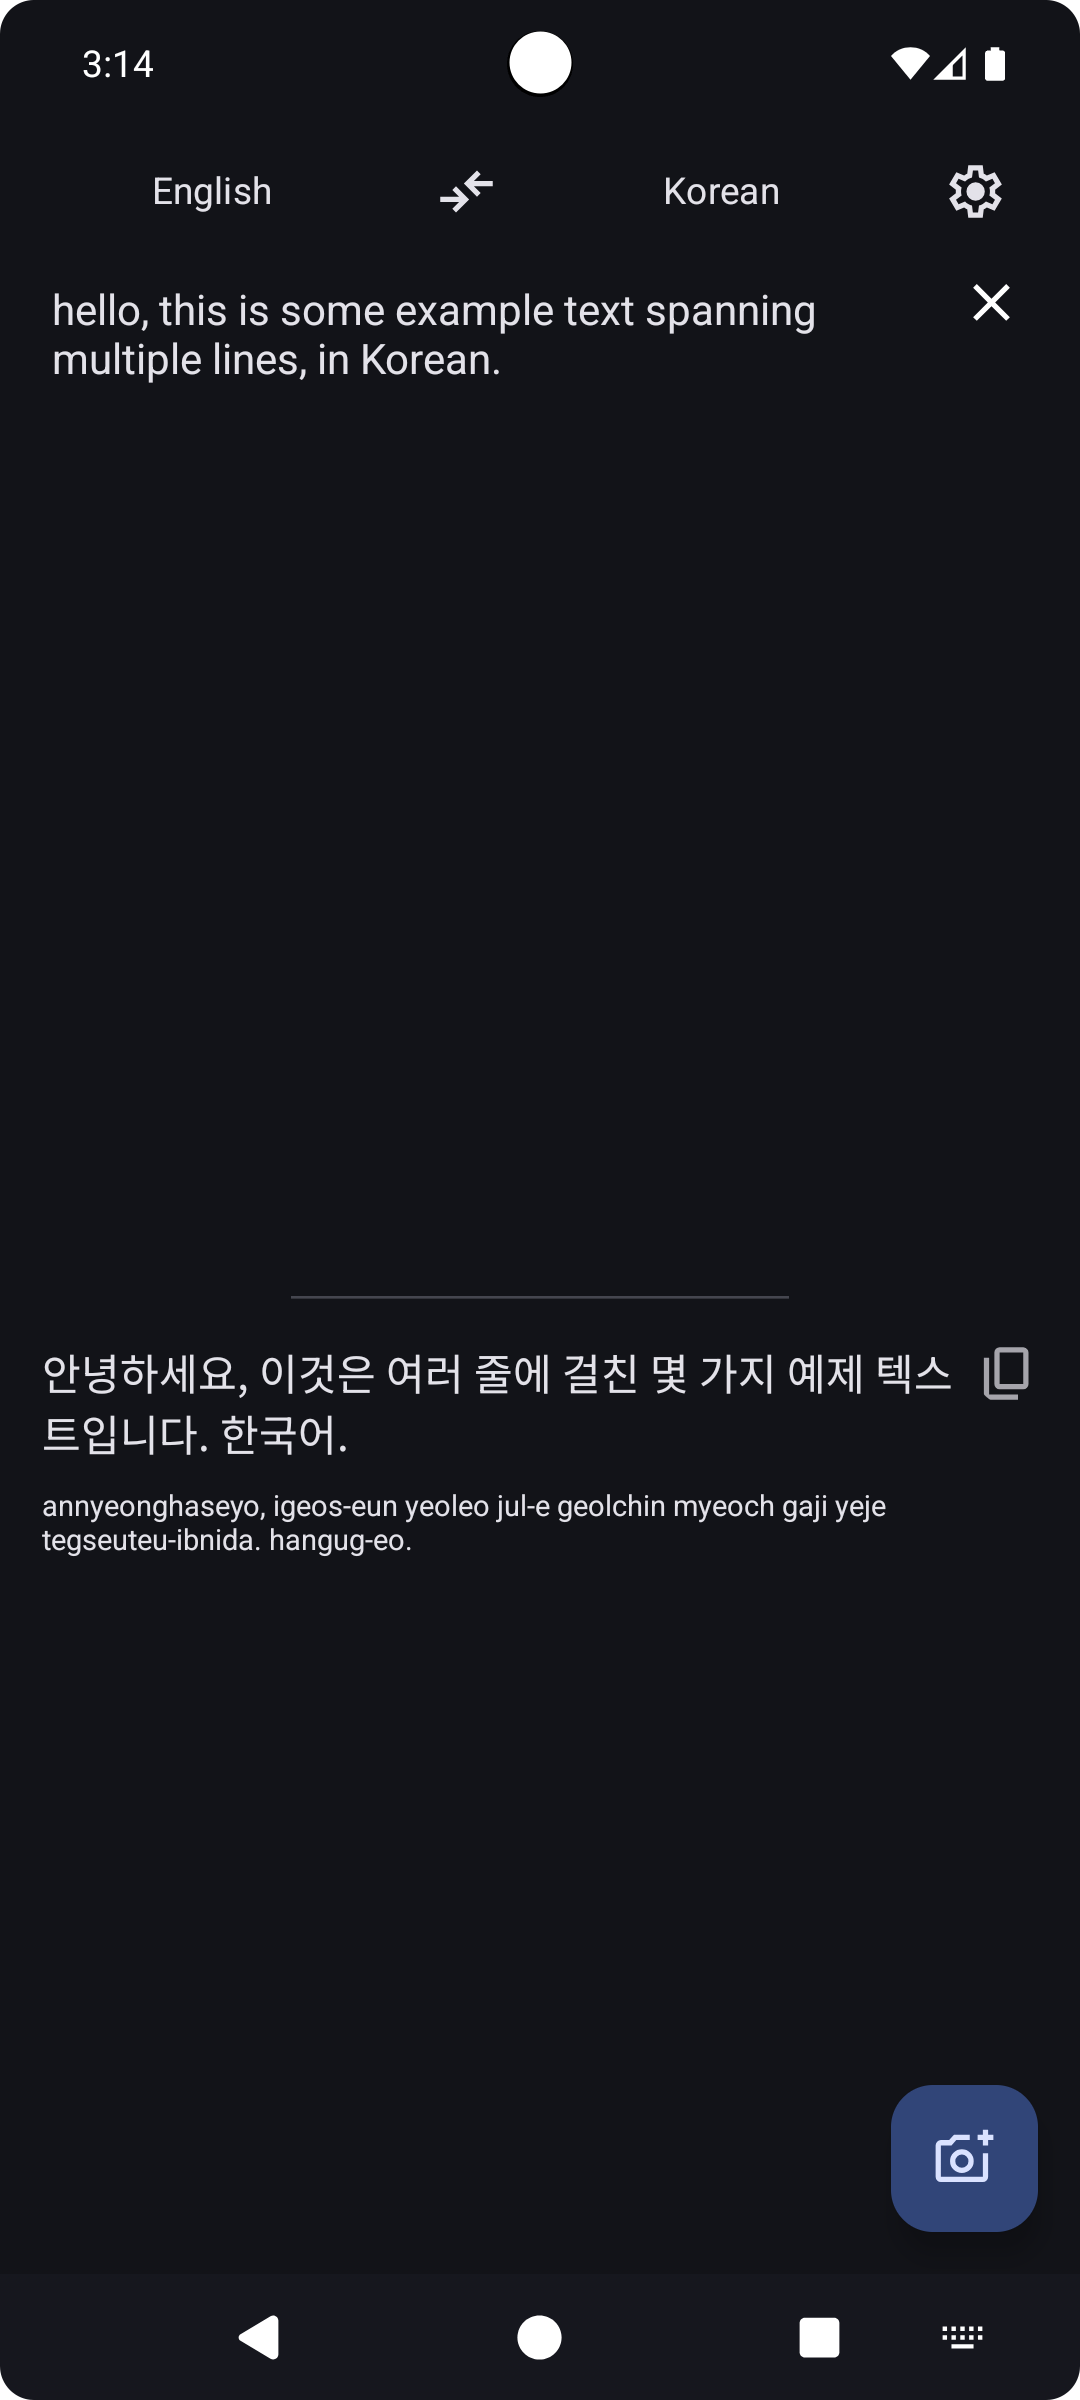
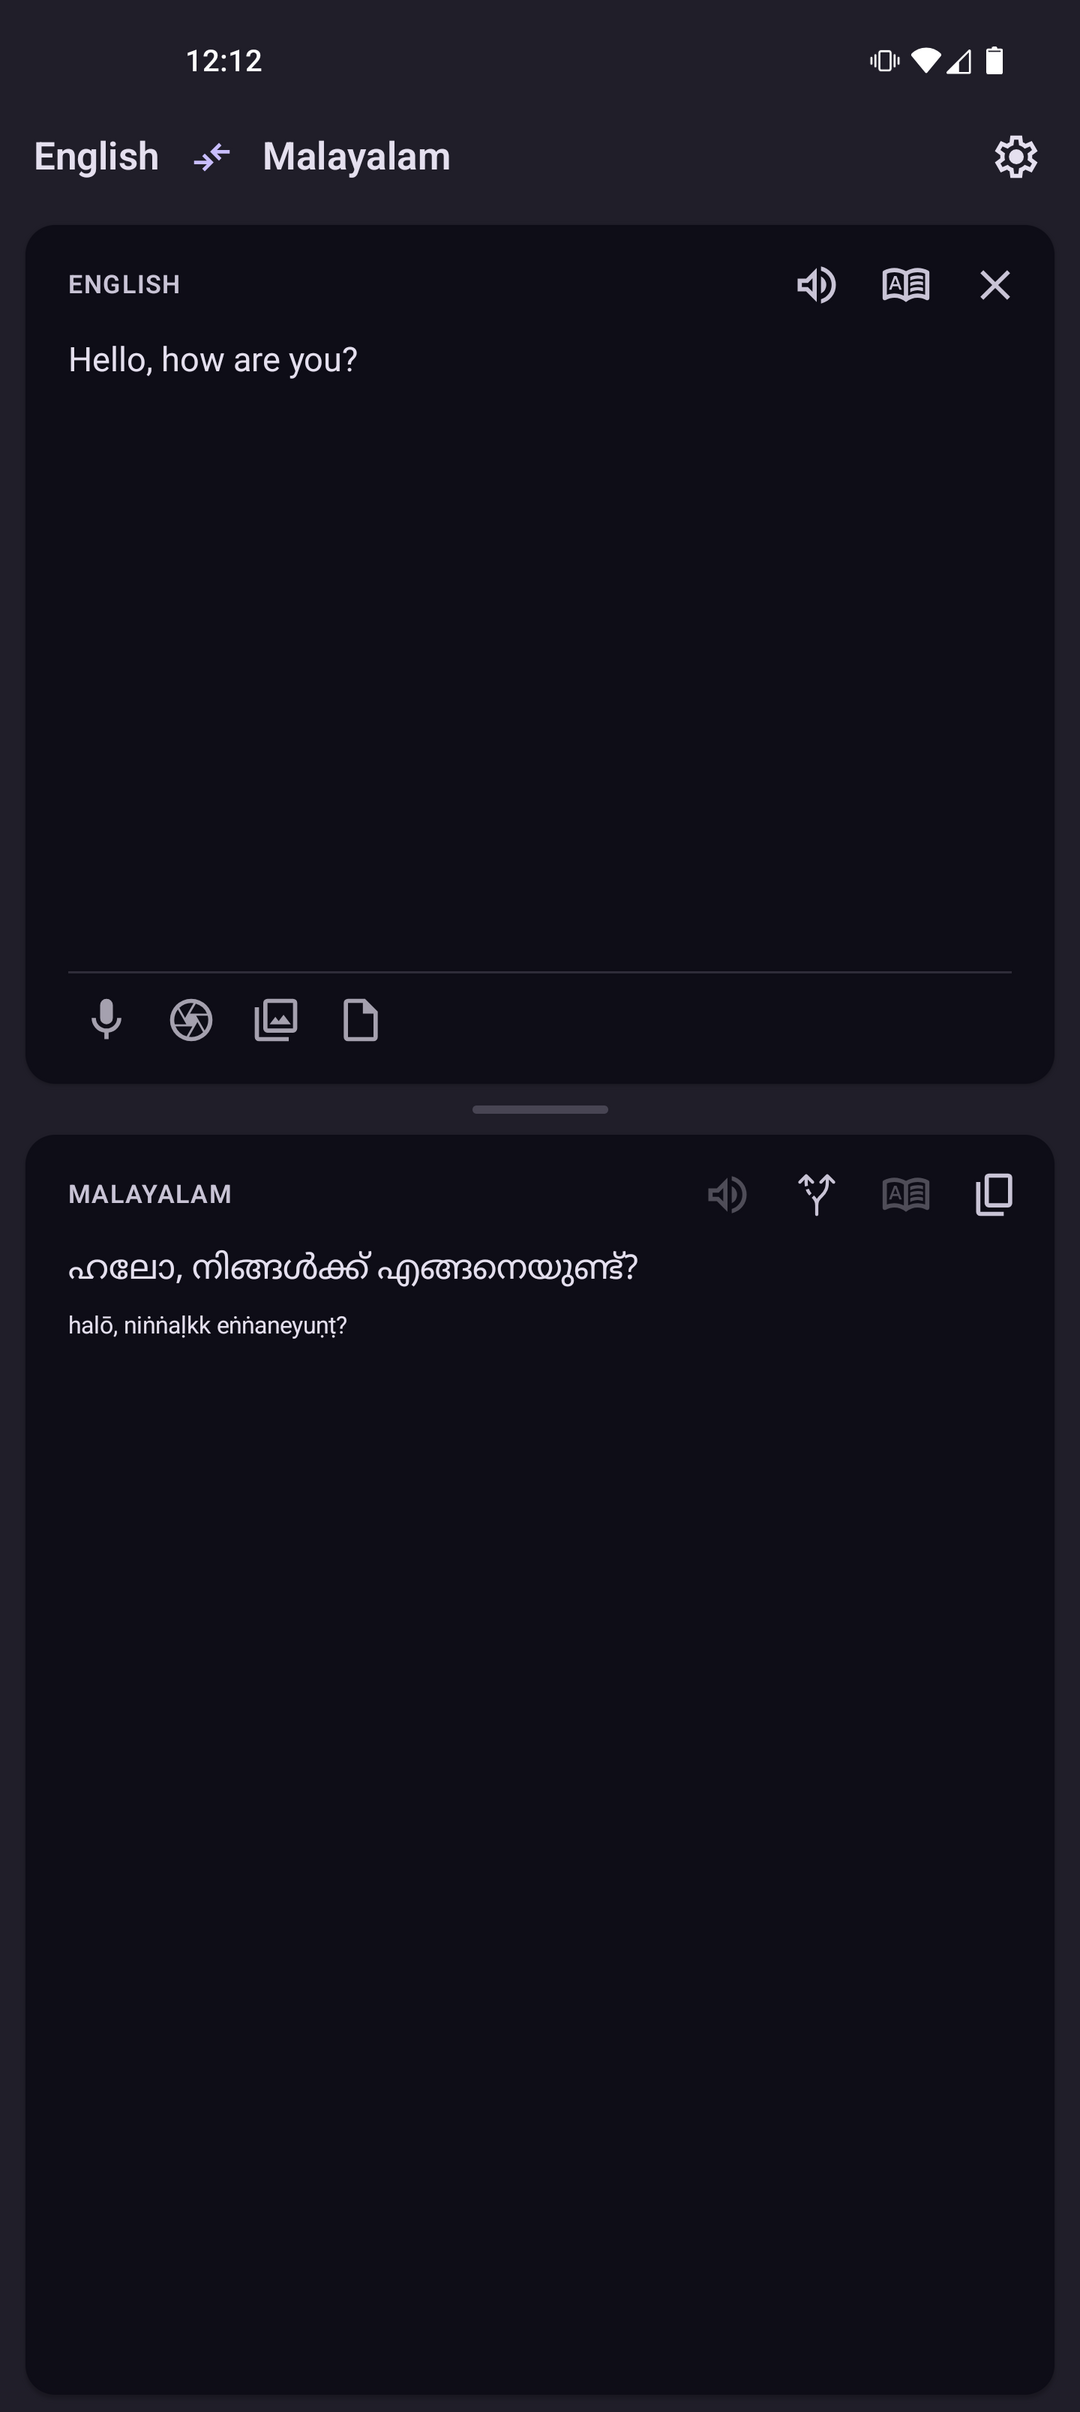
prep new release

diff --git a/README.md b/README.md
@@ -87,6 +87,7 @@ https://github.com/user-attachments/assets/bf774a4f-3d58-49b7-b4e2-cb30eb395b39
 - Turkish
 - Ukrainian
 - Urdu
+- Uyghur
 - Vietnamese
 
 ## Tech
